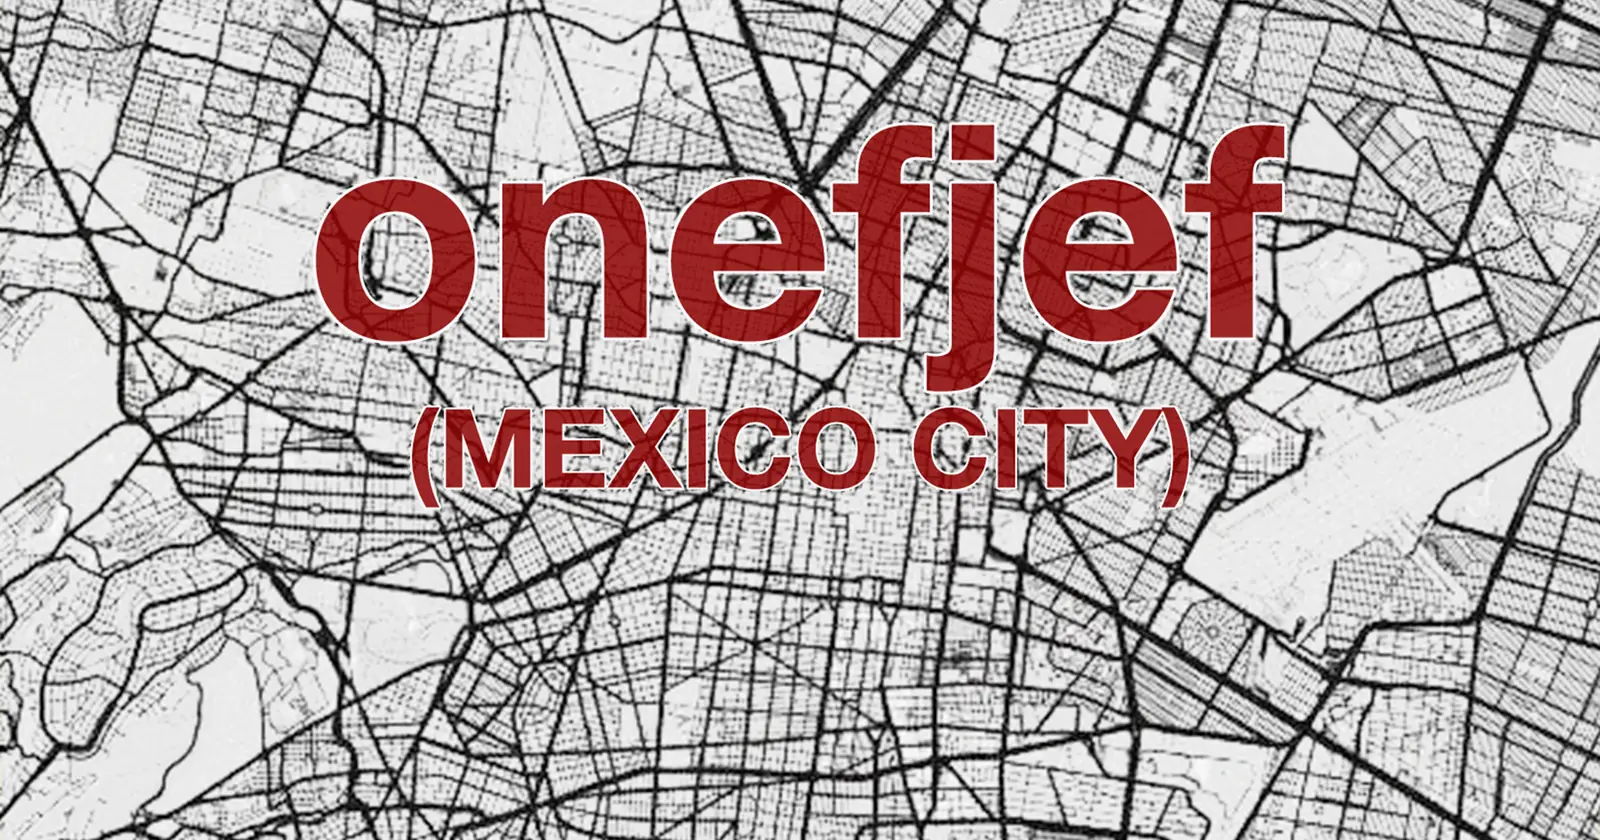
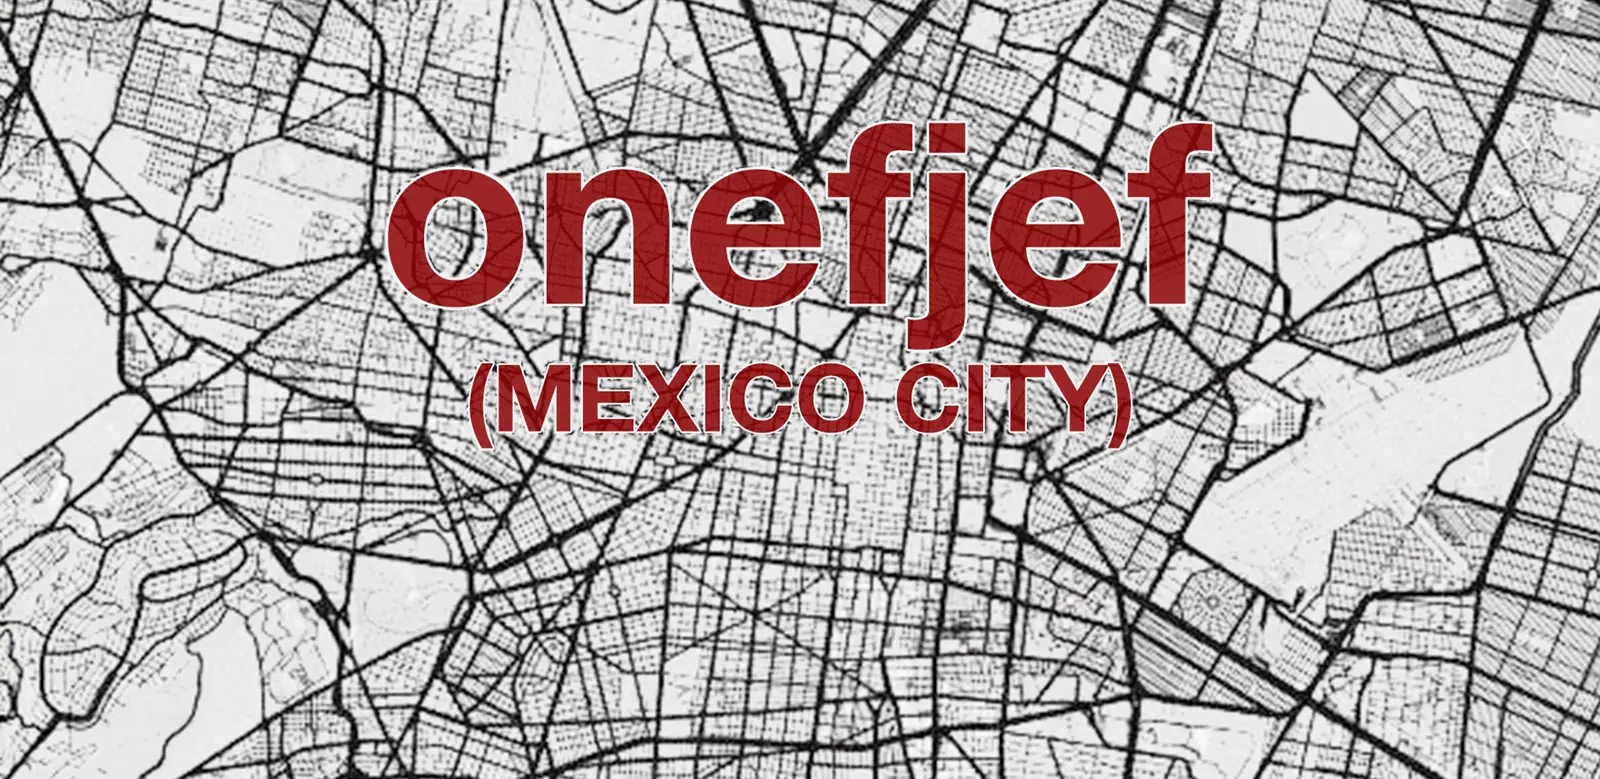
Make the title card lettering a little smaller again
Claude-Session: https://claude.ai/code/session_01LygyFnW3yFk7AoAu6oXFUb

diff --git a/tools/make_title_cards.py b/tools/make_title_cards.py
@@ -16,7 +16,7 @@ from PIL import Image, ImageFilter
 ROOT = os.path.dirname(os.path.dirname(os.path.abspath(__file__)))
 OUT = os.path.join(ROOT, 'static/img')
 maps = {t: Image.open(os.path.join(ROOT, f'tools/map-{t}.png')).convert('RGB') for t in ('light', 'dark')}
-SCALE = float(sys.argv[3]) if len(sys.argv) > 3 else 0.67
+SCALE = float(sys.argv[3]) if len(sys.argv) > 3 else 0.57
 
 def cover(img, w, h):
     s = max(w / img.width, h / img.height)
